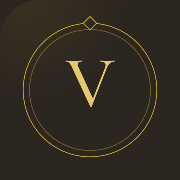
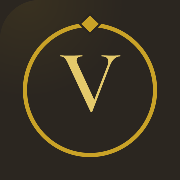
אייקונים: טבעת אחת עבה במקום טבעת כפולה דקה — לחדות באייפון
הטבעת הכפולה הדקה (stroke 2.5) + היהלום המתאר נעלמו לקווים אפורים
מטושטשים בגדלים קטנים (טאב ~32px, אייקון אפליקציה באייפון ~120px).

favicon.svg עכשיו: טבעת אחת מוצקה (stroke 12), יהלום מלא עם הילה חומה
שמפרידה אותו מהטבעת, ו-V גדול יותר (Cormorant Garamond 600). כל ה-PNG
מרוסטרים ממנו — ה-V נשלף אוטומטית מאלמנט ה-<text> של ה-SVG, בלי דריפט.

הלוגו המלא עם הטבעת הכפולה נשאר ב-og-image.png ובתוך המערכת
(.auth-monogram), שם הוא בגודל גדול ורואים את הפרטים.

Changed region(s): [[0.1111, 0.0833, 0.8889, 0.8889], [0.3333, 0.3056, 0.6667, 0.6389]]

diff --git a/frontend/scripts/render-brand-icons.html b/frontend/scripts/render-brand-icons.html
@@ -3,11 +3,16 @@
   מחולל אייקוני המותג של VEYA — מקור אמת להפקה חוזרת.
 
   הרעיון: לא "לצייר מחדש" את הלוגו, אלא לרסטר (raster) את הקובץ הקיים
-  frontend/public/favicon.svg — הטבעות, החריץ ליהלום והיהלום מגיעים
-  1:1 מה-SVG. רק האות V מצוירת בנפרד על קנבס, כדי שתיטען בגופן המותג
-  האמיתי (Cormorant Garamond מ-Google Fonts) ולא ב-fallback של סריף
-  כללי. כל הפרמטרים של ה-V (מיקום, גודל 209, משקל 500, צבע #E4C96B)
-  נלקחים ישירות מ-favicon.svg.
+  frontend/public/favicon.svg — הטבעת, היהלום והרקע מגיעים 1:1 מה-SVG.
+  רק האות V מצוירת בנפרד על קנבס, כדי שתיטען בגופן המותג האמיתי
+  (Cormorant Garamond מ-Google Fonts) ולא ב-fallback של סריף כללי.
+  כל הפרמטרים של ה-V (מיקום, font-size, font-weight, fill) נשלפים
+  אוטומטית מתוך אלמנט ה-<text> של favicon.svg — אין כפילות ואין דריפט.
+
+  favicon.svg מעוצב במכוון עם טבעת אחת עבה ויהלום מלא (ולא טבעת כפולה
+  דקה): קווי שיער נעלמים / מטשטשים בגדלים קטנים (טאב, אייקון אפליקציה
+  באייפון ~120px). הלוגו המלא עם הטבעת הכפולה נשאר ב-og-image.png ובתוך
+  המערכת (.auth-monogram), שם הוא נטען בגודל גדול.
 
   הרצה: מגישים את התיקייה הזו + עותק של favicon.svg משרת מקומי כלשהו
   (python3 -m http.server), פותחים את הקובץ, ושומרים כל קנבס אל
@@ -22,7 +27,7 @@
 <title>VEYA icon renderer</title>
 <link rel="preconnect" href="https://fonts.googleapis.com" />
 <link rel="preconnect" href="https://fonts.gstatic.com" crossorigin />
-<link href="https://fonts.googleapis.com/css2?family=Cormorant+Garamond:wght@500&display=swap" rel="stylesheet" />
+<link href="https://fonts.googleapis.com/css2?family=Cormorant+Garamond:wght@500;600;700&display=swap" rel="stylesheet" />
 <style>
   body { background:#111; color:#eee; font-family:system-ui, sans-serif; margin:16px; }
   canvas { image-rendering:pixelated; background:#333; margin:6px; vertical-align:top; }
@@ -37,14 +42,24 @@
 <script>
 // authoring box of favicon.svg
 const U = 512;
-// V params — copied verbatim from favicon.svg
-const V = { x: 256, y: 256, dy: -8, size: 209, weight: 500, fill: '#E4C96B' };
 
-let svgNoText = null; // favicon.svg source with its <text> element removed
+let svgNoText = null;                 // favicon.svg source, minus its <text> element
+let V = null;                         // the V's params, parsed straight out of favicon.svg
 
 async function loadSvg() {
   const raw = await (await fetch('/favicon.svg')).text();
-  // strip the <text>…</text> (the V) — we redraw it with the real webfont
+  const m = raw.match(/<text[\s\S]*?>\s*V\s*<\/text>/);
+  const t = m ? m[0] : '';
+  const attr = (n, d) => { const r = t.match(new RegExp(n + '="([^"]+)"')); return r ? r[1] : d; };
+  V = {
+    x: parseFloat(attr('x', 256)),
+    y: parseFloat(attr('y', 256)),
+    dy: parseFloat(attr('dy', 0)),
+    size: parseFloat(attr('font-size', 209)),
+    weight: attr('font-weight', '500'),
+    fill: attr('fill', '#E4C96B'),
+  };
+  // strip the <text>…</text> (the V) — we redraw it below with the real webfont
   svgNoText = raw.replace(/<text[\s\S]*?<\/text>/g, '');
 }
 
@@ -110,7 +125,7 @@ function register(name, canvas) {
 
 async function run() {
   await loadSvg();
-  await document.fonts.load("500 200px 'Cormorant Garamond'");
+  await document.fonts.load((V.weight || 500) + " 200px 'Cormorant Garamond'");
   await document.fonts.ready;
 
   // browser tab fallback — identical to favicon.svg (transparent corners kept)
